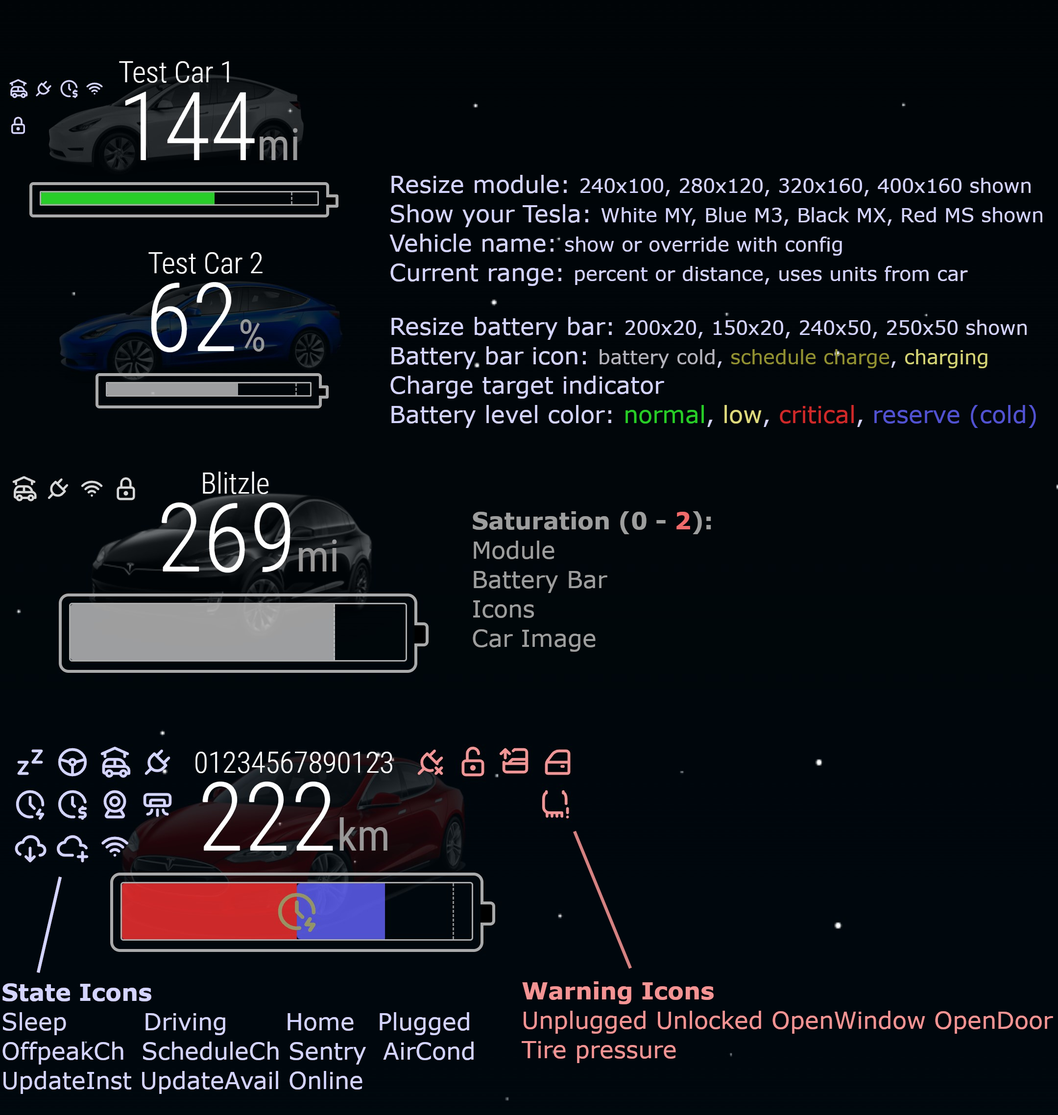
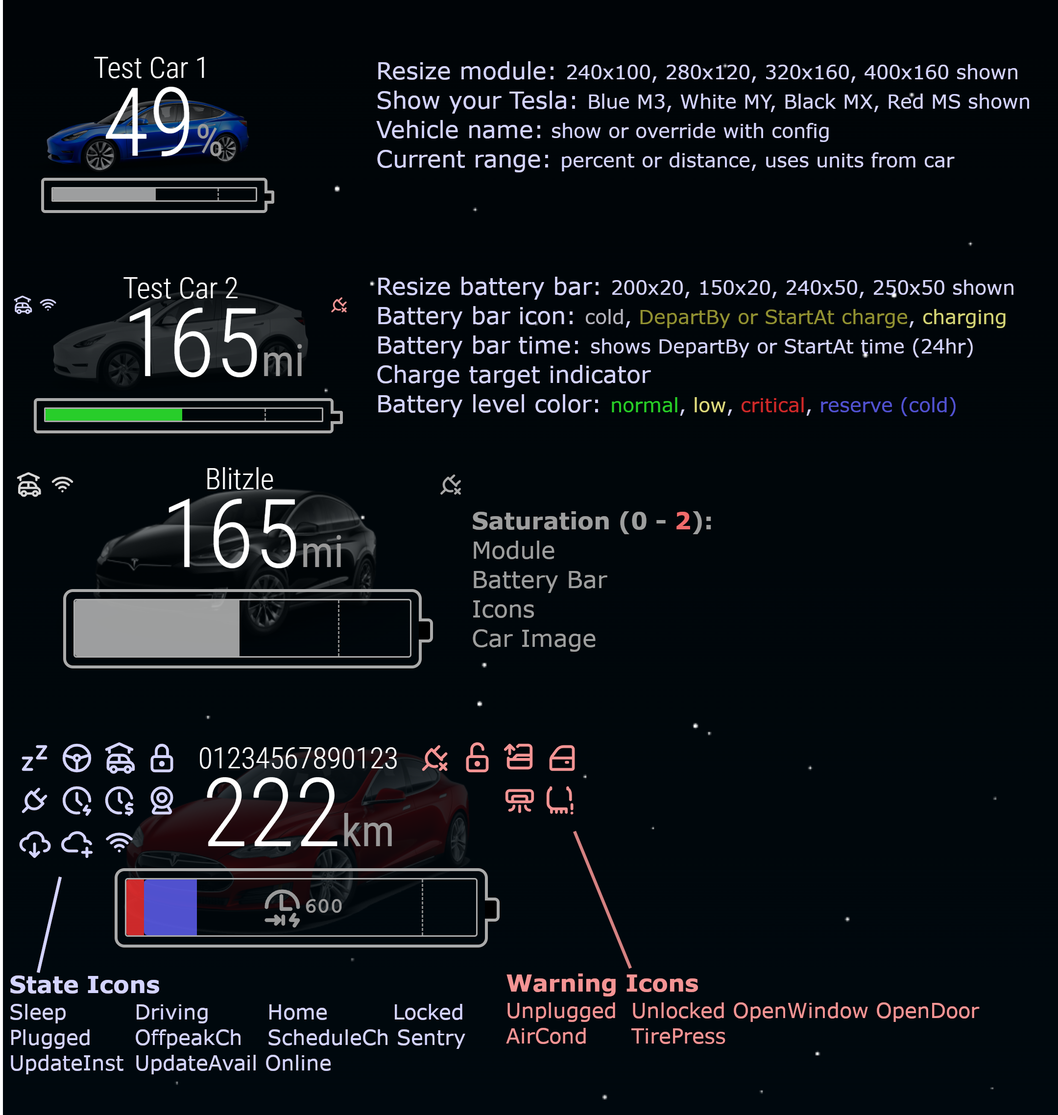
Incremental enhancements
- moved aircond status to warning to warn about battery use
- added StartAt and DepartBy icons (hopefully not too busy looking)
- added configurable scheduled depart and start times to battery bar; uses separate option from icon
- updated readme and image

Changed region(s): [[0.0, 0.0312, 0.9926, 0.6236], [0.0, 0.6548, 0.9926, 0.9978], [0.0, 0.2495, 0.031, 0.2806]]

diff --git a/MMM-Tesla3.js b/MMM-Tesla3.js
@@ -29,6 +29,7 @@ Module.register("MMM-Tesla3", {
         homeLongitude: null, // at least 4 decimals ##.####; gmaps
         showBatteryBar: true,
         showBatteryBarIcon: true,
+        showBatteryBarTime: true,
         showBatteryReserve: true, // shows when battery cold
         showBatteryLevelColors: true,
         percentBatteryLevelLow: 15,
@@ -73,6 +74,7 @@ Module.register("MMM-Tesla3", {
         showVerboseConsole: true,
         showTable: false,
         showTableOdometer: true,
+        showEasterEggs: false,
     },
 
     start: function () {
@@ -141,74 +143,79 @@ Module.register("MMM-Tesla3", {
         var state = data.state;
         
         // save states for top left icons
-        (data.state === "asleep" || data.state === "suspended") 
-            ? stateIcons.push("sleep") 
-            : ((data.state === "driving" && this.config.showDrivingIcon) 
-                ? stateIcons.push("steering-wheel") 
+        (data.state === "asleep" || data.state === "suspended")
+            ? stateIcons.push("sleep")
+            : ((data.state === "driving" && this.config.showDrivingIcon)
+                ? stateIcons.push("steering-wheel")
                 : null);
         
         ((this.config.useHomeLink && data.vehicle_state.homelink_nearby || this.isHome) && this.config.showHomeIcon)
             ? stateIcons.push("car-garage") : null;
         
-        (data.charge_state.charging_state !== "Disconnected") 
+        (data.charge_state.charging_state !== "Disconnected")
             ? ((this.config.showPluggedIcon) 
                 ? stateIcons.push("plug") 
                 : null )
-            : ((data.state !== "driving" && this.config.showUnPluggedIcon) 
+            : ((data.state !== "driving" && this.config.showUnPluggedIcon)
                 ? warningIcons.push("plug-x")
                 : null);
         
-        (data.charge_state.charging_state !== "charging" && (data.charge_state.scheduled_charging_pending || data.charge_state.managed_charging_active) && this.config.showScheduledChargeIcon) 
+        (data.charge_state.charging_state !== "charging" && (data.charge_state.scheduled_charging_pending || data.charge_state.managed_charging_active) && this.config.showScheduledChargeIcon)
             ? stateIcons.push("clock-bolt") : null;
         
-        (data.charge_state.off_peak_charging_enabled && this.config.showOffPeakIcon) 
+        (data.charge_state.off_peak_charging_enabled && this.config.showOffPeakIcon)
             ? stateIcons.push("clock-dollar") : null;
         
-        (data.vehicle_state.sentry_mode && this.config.showSentryModeIcon) 
+        (data.vehicle_state.sentry_mode && this.config.showSentryModeIcon)
             ? stateIcons.push("device-computer-camera") : null;
         
-        (data.climate_state.is_climate_on && this.config.showAirConditioningIcon) 
-            ? stateIcons.push("air-conditioning") : null;
-        
-        (data.state === "updating") 
-            ? stateIcons.push("cloud-download") 
-            : (data.vehicle_state.software_update.status !== "") 
-                ? stateIcons.push("cloud-plus") 
+        (data.state === "updating")
+            ? stateIcons.push("cloud-download")
+            : (data.vehicle_state.software_update.status !== "")
+                ? stateIcons.push("cloud-plus")
                 : null;
         
-        (data.state === "offline") 
-            ? warningIcons.push("wifi-off") 
+        (data.state === "offline")
+            ? warningIcons.push("wifi-off")
             : (this.config.showConnectedIcon)
                 ? stateIcons.push("wifi")
                 : null;
         
         // save warning related states for top right icons
-        (data.vehicle_state.locked) 
-            ? (this.config.showLockedIcon 
-                ? stateIcons.push("lock") 
+        (data.vehicle_state.locked)
+            ? (this.config.showLockedIcon
+                ? stateIcons.push("lock")
                 : null) 
-            : (this.config.showUnLockedIcon) 
-                ? warningIcons.push("lock-open") 
+            : (this.config.showUnLockedIcon)
+                ? warningIcons.push("lock-open")
                 : null;
         
-        (data.vehicle_state.fd_window + data.vehicle_state.fp_window + data.vehicle_state.rd_window + data.vehicle_state.rp_window > 0) 
-            ? warningIcons.push("window-up") 
+        (data.vehicle_state.fd_window + data.vehicle_state.fp_window + data.vehicle_state.rd_window + data.vehicle_state.rp_window > 0)
+            ? warningIcons.push("window-up")
             : null;
         
-        (data.vehicle_state.fd + data.vehicle_state.fp + data.vehicle_state.rd + data.vehicle_state.rp + data.vehicle_state.ft + data.vehicle_state.rt > 0) 
-            ? warningIcons.push("car-door") 
+        (data.vehicle_state.fd + data.vehicle_state.fp + data.vehicle_state.rd + data.vehicle_state.rp + data.vehicle_state.ft + data.vehicle_state.rt > 0)
+            ? warningIcons.push("car-door")
             : null;
         
-        (data.vehicle_state.tpms_soft_warning_fl || data.vehicle_state.tpms_soft_warning_fr || data.vehicle_state.tpms_soft_warning_rl || data.vehicle_state.tpms_soft_warning_rr) 
-            ? warningIcons.push("tire-exclamation") 
+        (data.vehicle_state.tpms_soft_warning_fl || data.vehicle_state.tpms_soft_warning_fr || data.vehicle_state.tpms_soft_warning_rl || data.vehicle_state.tpms_soft_warning_rr)
+            ? warningIcons.push("tire-exclamation")
             : null;
+        
+        (data.climate_state.is_climate_on && this.config.showAirConditioningIcon)
+            ? warningIcons.push("air-conditioning") : null;
+        
+        (data.vehicle_state.santa_mode && this.config.showEasterEggs)
+            ? warningIcons.push("santa")
+            : null;
+        
         
         // size options
         // size of the icons + battery (above text)
-        const layWidth = this.config.sizeOptions.width || 450; // px, default: 450
+        const layWidth = this.config.sizeOptions.width || 450;   // px, default: 450
         const layHeight = this.config.sizeOptions.height || 203; // px, default: 203
         // the battery images
-        const layBatWidth = this.config.sizeOptions.batteryWidth || 250; // px, default: 250
+        const layBatWidth = this.config.sizeOptions.batteryWidth || 250;  // px, default: 250
         const layBatHeight = this.config.sizeOptions.batteryHeight || 75; // px, default: 75
         const layBatTopMargin = 0; // px, default: 0
         // top offset - to reduce visual distance to the module above
@@ -217,7 +224,7 @@ Module.register("MMM-Tesla3", {
         // calculate scales
         var layBatScaleWidth = layBatWidth / 250;  // scale factor normalized to 250
         var layBatScaleHeight = layBatHeight / 75; // scale factor normalized to 75
-        var layScaleWidth = layWidth / 450;      // scale factor normalized to 203
+        var layScaleWidth = layWidth / 450;        // scale factor normalized to 203
         var layScaleHeight = layHeight / 203;      // scale factor normalized to 203
 
         const teslaModel = this.config.carImageOptions.model.toLowerCase() || "ms";
@@ -233,14 +240,24 @@ Module.register("MMM-Tesla3", {
         var batteryReserve = (data.charge_state.battery_level - data.charge_state.usable_battery_level);
         var batteryReserveVisible = (batteryReserve) > 1; // at <= 1% reserve the app and the car don't show it, so we won't either
         var chargeLimitSOC = data.charge_state.charge_limit_soc;
-        var batteryOverlayIcon = (!this.config.showBatteryBarIcon) ? `` 
+        var batteryOverlayIcon = (!this.config.showBatteryBarIcon) 
+            ? `` 
             : (data.charge_state.charging_state === "charging")
-            ? `<span class="batteryicon icon-bolt"><load-file replaceWith src="${path}/icons/bolt.svg"></load-file></span>`
-            : (batteryReserveVisible && showBatteryReserveIcon)
-                ? `<span class="batteryicon icon-snowflake"><load-file replaceWith src="${path}/icons/snowflake.svg"></load-file></span>` 
-                : ((data.charge_state.scheduled_charging_pending || data.charge_state.managed_charging_active) && this.config.showScheduledChargeIcon) 
-                    ? `<span class="batteryicon icon-clock-bolt"><load-file replaceWith src="${path}/icons/clock-bolt.svg"></load-file></span>` 
-                    : ``;
+                ? `<span class="batteryicon icon-bolt"><load-file replaceWith src="${path}/icons/bolt.svg"></load-file></span>`
+                : (batteryReserveVisible && showBatteryReserveIcon)
+                    ? `<span class="batteryicon icon-snowflake"><load-file replaceWith src="${path}/icons/snowflake.svg"></load-file></span>`
+                    : (data.charge_state.scheduled_charging_pending && this.config.showScheduledChargeIcon)
+                        ? (data.charge_state.scheduled_charging_mode === "StartAt")
+                            ? `<span class="batteryicon icon-clock-startat"><load-file replaceWith src="${path}/icons/clock-startat.svg"></load-file></span>`
+                            : `<span class="batteryicon icon-clock-departby"><load-file replaceWith src="${path}/icons/clock-departby.svg"></load-file></span>`
+                        : ``;
+        var batteryOverlayText = (!this.config.showBatteryBarTime) 
+            ? "" 
+            : (data.charge_state.scheduled_charging_pending && this.config.showScheduledChargeIcon)
+                ? (data.charge_state.scheduled_charging_mode === "StartAt")
+                    ? `<span class="batterytext">` + (data.charge_state.scheduled_charging_start_time_minutes || data.charge_state.scheduled_charging_start_time_app) / 0.6 + `</span>`
+                    : `<span class="batterytext">` + data.charge_state.scheduled_departure_time_minutes / 0.6 + `</span>`
+                : "";
 
         var vehicleName = this.config.vehicleName || data.vehicle_state.vehicle_name;
         const showVehicleName = this.config.showVehicleName;
@@ -265,21 +282,23 @@ Module.register("MMM-Tesla3", {
         // Debugging / Testing
         if (this.config.showDebug) {
             vehicleName = "01234567890123";
-            batteryOverlayIcon = `<span class="batteryicon icon-clock-bolt"><load-file replaceWith src="${path}/icons/clock-bolt.svg"></load-file></span>`;
+            var showScheduledChargeTimeOnIcon = true;
+            batteryOverlayIcon = `<span class="batteryicon icon-clock-departby"><load-file replaceWith src="${path}/icons/clock-departby.svg"></load-file></span>`;
+            batteryOverlayText = `<span class="batterytext small">` + data.charge_state.scheduled_departure_time_minutes / 0.6 + `</span>`;
             batteryLevelClass = "battery-level-critical";
             batteryUnit = "km"
             batteryBigNumber = 222;
-            batteryUsable = 50;
-            batteryReserve = 25;
+            batteryUsable = 5;
+            batteryReserve = 15;
             batteryReserveVisible = true; // at <= 1% reserve the app and the car don't show it, so we won't either
-            chargeLimitSOC = 95;
+            chargeLimitSOC = 85;
             
             stateIcons = [];
             warningIcons = [];
-            var tempIcons = ["sleep","steering-wheel","car-garage","lock","plug","clock-bolt","clock-dollar","device-computer-camera","air-conditioning","cloud-download","cloud-plus","wifi"];
+            var tempIcons = ["sleep","steering-wheel","car-garage","lock","plug","clock-bolt","clock-dollar","device-computer-camera","cloud-download","cloud-plus","wifi"];
             stateIcons.push(...tempIcons);
             
-            var tempIcons = ["plug-x","lock-open","window-up","car-door","tire-exclamation"];
+            var tempIcons = ["plug-x","lock-open","window-up","car-door","air-conditioning","tire-exclamation"];
             warningIcons.push(...tempIcons);
         }
         
@@ -369,6 +388,7 @@ Module.register("MMM-Tesla3", {
                                     align-items: center;
                                     justify-content: center;">
                             ${batteryOverlayIcon}
+                            ${batteryOverlayText}
                         </div>
 
                     </div>

diff --git a/MMM-Tesla3.css b/MMM-Tesla3.css
@@ -10,6 +10,12 @@
   width: 20%;
 }
 
+.icon-santa {
+  color: #94f494;
+  padding-left: 5%;
+  width: 45%;
+}
+
 .battery-level-normal {
     background-color: #32ff32; /* full green */
 }
@@ -24,6 +30,12 @@
 
 .battery-level-reserve {
     background-color: #6464ff; /* full blue */
+}
+
+.batterytext {
+    font-family: monospace, sans-serif;
+    font-size: 0.5em;
+    font-weight: 1000;
 }
 
 .batteryicon {

diff --git a/README.md b/README.md
@@ -14,6 +14,11 @@ This is intended to be a current, state-of-the-API Tesla vehicle module, support
 ![Picture showing 4 configurations of the MMM-Tesla3 magic mirror module.](/images/MMM-Tesla3.png)
 
 
+## Current Issues Being Worked
+* Closing Incremental1 branch: various enhancements
+* Opening Incremental2 branch: troubleshoot waking hang, add options to avoid waking (vamp drain), add FE request loop and BE request tracking
+
+
 ## Using the module
 To use this module, add it to the modules array in the `config/config.js` file:
 ````javascript
@@ -35,58 +40,59 @@ modules: [
 ## Configuration options
 The following properties can be configured. Note, don't write the indicated units in your config.
 
-| Option                        | Default/Units | Description                                                                                               |
-| :-:                           | :-:           | :-                                                                                                        |
-|`vehicleIndex`                 | `0`           | zero-based (0,1,2...) position of the car in your list of cars in Tesla's database.<br>when you get your `refresh_token` from [tesla-info.com](https://tesla-info.com/tesla-token.php), you can see the list there<br>**required for multicar to work**              |
-|`vehicleName`                  | `null`        | enter a value to override the name saved in your car / Tesla.com                                          |
-|`showVehicleName`              | `true`        | shows vehicle name at top of module                                                                       |
-|`rangeDisplayType`             | `distance`    | options: `distance`,`percent`<br>sets the large vehicle range value using the type chosen; range units come from the car's distance GUI settings retrieved from Tesla.com                 |
-|`useHomeLink`                  | `true`        | `true` uses the car's proximity to Homelink geomarkers in the Tesla database to determine homeness, which overrides whatever the lat/long calculation determines                                                                                                      |
-|`homeLatitude`                 | `null` deg    | enter latitude as a decimal degrees to at least the 4th decimal place<br>recommend right-clicking google maps to get the coordinates                                                                                                                                         |
-|`homeLongitude`                | `null` deg    | enter longitude as a decimal degrees to at least the 4th decimal place<br>recommend right-clicking google maps to get the coordinates                                                                                                                                         |
-|`showBatteryBar`               | `true`        | `true` to show a battery-shaped bar below the charge level / range indicator                              |
-|`showBatteryBarIcon`           | `true`        | `true` to show the battery bar icon: bolt=charging, clock-bolt=scheduled charge, snowflake=battery cold   |
-|`showBatteryReserve`           | `true`        | shows the portion of lost battery range/level as blue on battery bar                                      |
-|`showBatteryLevelColors`       | `true`        | `false` to turn of the battery level coloring in one line                                                 |
-|`percentBatteryLevelLow`       | `15` %        | battery bar color set to yellow below this value; `0` to disable                                          |
-|`percentBatteryLevelCritical`  | `5` %         | battery bar color set to red below this value; `0` to disable                                             |
-|`saturateModule`               | `1`           | range: `0 - 2`, set to `0` to remove all color from module (grayscale)                                    |
-|`saturateCarImage`             | `1`           | range: `0 - 2`, set to `0` to remove all color from your Tesla.com car image (grayscale)                  |
-|`saturateIcons`                | `1`           | range: `0 - 2`, set to `0` to remove all color from icons (grayscale), mostly noticable on warnings       |
-|`saturateBatteryBar`           | `1`           | range: `0 - 2`, set to `0` to remove all color from battery bar (grayscale); module will still apply darkness of other color settings, e.g. Battery Level Critical will still be darker than Battery Level Normal                                                            |
-|`showStatusIcons`              | `true`        | `true` enables all vehicle status icons                                                                   |
-|`showWarningIcons`             | `true`        | `true` enables all vehicle warning icons                                                                  |
-|`showLockedIcon`               | `false`       | `true` shows vehicle lock status as state icon, (lock)                                                    |
-|`showUnLockedIcon`             | `true`        | `true` shows vehicle unlocked status as _warning_ icon, (unlock)                                          |
-|`showPluggedIcon`              | `true`        | `true` shows vehicle plug status as state icon, (plug)                                                    |
-|`showUnPluggedIcon`            | `true`        | `true` shows vehicle unplug status as _warning_ icon, (plug with x)                                       |
-|`showHomeIcon`                 | `true`        | `true` shows home status as state icon; this can be triggered by `useHomelink` and being near a homelinked geomarker in Tesla or by MMM-Tesla3 calculating an approximate distance from `homeLatitude` and `homeLongitude`, (car under roof)                           |
-|`showDrivingIcon`              | `true`        | `true` shows vehicle status = "drive" as state icon, aka when the car is on the road, (steering wheel)    |
-|`showSentryModeIcon`           | `true`        | `true` shows sentry mode status as state icon, (webcam)                                                   |
-|`showAirConditioningIcon`      | `true`        | `true` shows air conditioning status as state icon, (air conditioner)                                     |
-|`showOffPeakIcon`              | `true`        | `true` shows off peak charging option status as state icon, (clock with dollar)                           |
-|`showScheduledChargeIcon`      | `true`        | `true` shows scheduled charging option status as state icon, (clock with bolt)                            |
-|`showConnectedIcon`            | `true`        | `true` shows whether the car is connected to Tesla.com option status as state icon, (wifi)                |
-|`refreshInterval`              | `5` minutes   | e.g. `20` would query the Tesla server every 20 minutes                                                   |
-|`refreshIntervalCharging`      | `15` minutes  | e.g. `20` would query the Tesla server every 20 minutes while charging                                    |
-|**`sizeOptions`**              | n/a           | must be formatted like a sublist, e.g. <br>`sizeOptions: {`<br>`  width: 400,`<br>`  height: 203,`<br>`  batteryWidth: 250,`<br>`  batteryHeight: 75,`<br>`  topOffset: 40`<br>`},`<br>weird battery or overlapping parts means you likely picked bad numbers                                      |
-|   `width`                     | `400` pixels  | module width, module scales based on default                                                              |
-|   `height`                    | `203` pixels  | module height, module scales based on default                                                             |
-|   `batteryWidth`              | `250` pixels  | battery bar width, module scales based on default                                                         |
-|   `batteryHeight`             | `75` pixels   | battery bar height, module scales based on default                                                        |
-|   `topOffset`                 | `40` pixels   | module top spacing from module above                                                                      |
-|**`carImageOptions`**          | n/a           | must be formatted like a sublist, e.g. <br>`carImageOptions: {`<br>`  model: "MS",`<br>`  view: "STUD_3QTR",`<br>`  options: "WT19",`<br>`  verticalOffset: 0,`<br>`  imageOpacity: 0.2`<br>`},`<br>no picture means you likely picked mis-matched options<br>check [here](https://tesla-info.com/tesla-option-codes.php) for help setting up codes; test [here](https://static-assets.tesla.com/configurator/compositor?model=&view=&options=&bkba_opt=1)                                           |
-|   `model`                     | `MS`          | options: `MS`, `MX`, `MY`, `M3`, `CT`(?)                                                                  |
-|   `view`                      | `STUD_3QTR`   | options: `STUD_3QTR`, `STUD_SEAT`, `STUD_SIDE`, `STUD_REAR`, `STUD_WHEEL`<br>each requires specific `options`                                               |
-|   `options`                   | `DV4W,INBFP,MTS08,PPMR,WT19` | defaults make a red Model S. See [option codes](https://tesla-api.timdorr.com/vehicle/optioncodes) for more options.                                                                                                                                           |
-|   `verticalOffset`            | `0` pixels    |                                                                                                           |
-|   `imageOpacity`              | `0.2`         | range: `0.0 - 1.0` fractional opacity                                                                     |
+| Option                        | Default/Units | Description
+| :-:                           | :-:           | :-
+|`vehicleIndex`                 | `0`           | zero-based (0,1,2...) position of the car in your list of cars in Tesla's database.<br>when you get your `refresh_token` from [tesla-info.com](https://tesla-info.com/tesla-token.php), you can see the list there<br>**required for multicar to work**
+|`vehicleName`                  | `null`        | enter a value to override the name saved in your car / Tesla.com
+|`showVehicleName`              | `true`        | shows vehicle name at top of module
+|`rangeDisplayType`             | `distance`    | options: `distance`,`percent`<br>sets the large vehicle range value using the type chosen; range units come from the car's distance GUI settings retrieved from Tesla.com
+|`useHomeLink`                  | `true`        | `true` uses the car's proximity to Homelink geomarkers in the Tesla database to determine homeness, which overrides whatever the lat/long calculation determines
+|`homeLatitude`                 | `null` deg    | enter latitude as a decimal degrees to at least the 4th decimal place<br>recommend right-clicking google maps to get the coordinates
+|`homeLongitude`                | `null` deg    | enter longitude as a decimal degrees to at least the 4th decimal place<br>recommend right-clicking google maps to get the coordinates
+|`showBatteryBar`               | `true`        | `true` to show a battery-shaped bar below the charge level / range indicator
+|`showBatteryBarIcon`           | `true`        | `true` to show the battery bar icon: bolt=charging, clock-bolt=scheduled charge, snowflake=battery cold
+|`showBatteryBarTime`           | `true`        | `true` to show the : bolt=charging, clock >\|=scheduled departby, clock \|>=scheduled startat, snowflake=battery cold
+|`showBatteryReserve`           | `true`        | shows the portion of lost battery range/level as blue on battery bar
+|`showBatteryLevelColors`       | `true`        | `false` to turn of the battery level coloring in one line
+|`percentBatteryLevelLow`       | `15` %        | battery bar color set to yellow below this value; `0` to disable
+|`percentBatteryLevelCritical`  | `5` %         | battery bar color set to red below this value; `0` to disable
+|`saturateModule`               | `1`           | range: `0 - 2`, set to `0` to remove all color from module (grayscale)
+|`saturateCarImage`             | `1`           | range: `0 - 2`, set to `0` to remove all color from your Tesla.com car image (grayscale)
+|`saturateIcons`                | `1`           | range: `0 - 2`, set to `0` to remove all color from icons (grayscale), mostly noticable on warnings
+|`saturateBatteryBar`           | `1`           | range: `0 - 2`, set to `0` to remove all color from battery bar (grayscale); module will still apply darkness of other color settings, e.g. Battery Level Critical will still be darker than Battery Level Normal
+|`showStatusIcons`              | `true`        | `true` enables all vehicle status icons
+|`showWarningIcons`             | `true`        | `true` enables all vehicle warning icons
+|`showLockedIcon`               | `false`       | `true` shows vehicle lock status as state icon, (lock)
+|`showUnLockedIcon`             | `true`        | `true` shows vehicle unlocked status as _warning_ icon, (unlock)
+|`showPluggedIcon`              | `true`        | `true` shows vehicle plug status as state icon, (plug)
+|`showUnPluggedIcon`            | `true`        | `true` shows vehicle unplug status as _warning_ icon, (plug with x)
+|`showHomeIcon`                 | `true`        | `true` shows home status as state icon; this can be triggered by `useHomelink` and being near a homelinked geomarker in Tesla or by MMM-Tesla3 calculating an approximate distance from `homeLatitude` and `homeLongitude`, (car under roof)
+|`showDrivingIcon`              | `true`        | `true` shows vehicle status = "drive" as state icon, aka when the car is on the road, (steering wheel)
+|`showSentryModeIcon`           | `true`        | `true` shows sentry mode status as state icon, (webcam)
+|`showAirConditioningIcon`      | `true`        | `true` shows air conditioning status as state icon, (air conditioner)
+|`showOffPeakIcon`              | `true`        | `true` shows off peak charging option status as state icon, (clock with dollar)
+|`showScheduledChargeIcon`      | `true`        | `true` shows scheduled charging option status as state icon, (clock with bolt)
+|`showConnectedIcon`            | `true`        | `true` shows whether the car is connected to Tesla.com option status as state icon, (wifi)
+|`refreshInterval`              | `5` minutes   | e.g. `20` would query the Tesla server every 20 minutes
+|`refreshIntervalCharging`      | `15` minutes  | e.g. `20` would query the Tesla server every 20 minutes while charging
+|**`sizeOptions`**              | n/a           | must be formatted like a sublist, e.g. <br>`sizeOptions: {`<br>`  width: 400,`<br>`  height: 203,`<br>`  batteryWidth: 250,`<br>`  batteryHeight: 75,`<br>`  topOffset: 40`<br>`},`<br>weird battery or overlapping parts means you likely picked bad numbers
+|   `width`                     | `400` pixels  | module width, module scales based on default
+|   `height`                    | `203` pixels  | module height, module scales based on default
+|   `batteryWidth`              | `250` pixels  | battery bar width, module scales based on default
+|   `batteryHeight`             | `75` pixels   | battery bar height, module scales based on default
+|   `topOffset`                 | `40` pixels   | module top spacing from module above
+|**`carImageOptions`**          | n/a           | must be formatted like a sublist, e.g. <br>`carImageOptions: {`<br>`  model: "MS",`<br>`  view: "STUD_3QTR",`<br>`  options: "WT19",`<br>`  verticalOffset: 0,`<br>`  imageOpacity: 0.2`<br>`},`<br>no picture means you likely picked mis-matched options<br>check [here](https://tesla-info.com/tesla-option-codes.php) for help setting up codes; test [here](https://static-assets.tesla.com/configurator/compositor?model=&view=&options=&bkba_opt=1)
+|   `model`                     | `MS`          | options: `MS`, `MX`, `MY`, `M3`, `CT`(?)
+|   `view`                      | `STUD_3QTR`   | options: `STUD_3QTR`, `STUD_SEAT`, `STUD_SIDE`, `STUD_REAR`, `STUD_WHEEL`<br>each requires specific `options`
+|   `options`                   | `DV4W,INBFP,MTS08,PPMR,WT19` | defaults make a red Model S. See [option codes](https://tesla-api.timdorr.com/vehicle/optioncodes) for more options.
+|   `verticalOffset`            | `0` pixels    |
+|   `imageOpacity`              | `0.2`         | range: `0.0 - 1.0` fractional opacity
 |**Additional Items**           |
-|`homeRadius`                   | `100` varies  | shall be the same units as earthRadius option<br>default value is 100 meters. see `earthRadius`           |
-|`earthRadius`                  | `6371000` varies | assumed earth radius for approximate distance from home calcs<br>default is the earth radius in meters but you can convert homeRadius and earthRadius to mi if desired (they shall be the same units, there is no conversion)                                              | 
-|`showDebug`                    | `false`       | `true` turns on a bunch of troubleshooting items, crazy icons, etc.                                       |
-|`showVerboseConsole`           | `true`        | 'false' turns off the MM console logs                                                                     |
-|`showTable`                    | `false`       | `true` would enable untested legacy MMM-TeslaMate table feature                                           |
-|`showTableOdometer`            | `true`        | Shows odometer on table  
+|`homeRadius`                   | `100` varies  | shall be the same units as earthRadius option<br>default value is 100 meters. see `earthRadius`
+|`earthRadius`                  | `6371000` varies | assumed earth radius for approximate distance from home calcs<br>default is the earth radius in meters but you can convert homeRadius and earthRadius to mi if desired (they shall be the same units, there is no conversion) 
+|`showDebug`                    | `false`       | `true` turns on a bunch of troubleshooting items, crazy icons, etc.
+|`showVerboseConsole`           | `true`        | 'false' turns off the MM console logs
+|`showTable`                    | `false`       | `true` would enable untested legacy MMM-TeslaMate table feature
+|`showTableOdometer`            | `true`        | `true` shows odometer on legacy table
 
 * Note: Warning icons for low tire pressure (squish tire), open doors (car door) and windows (poorly svg'd car window with up arrow) are currently not configurable.
